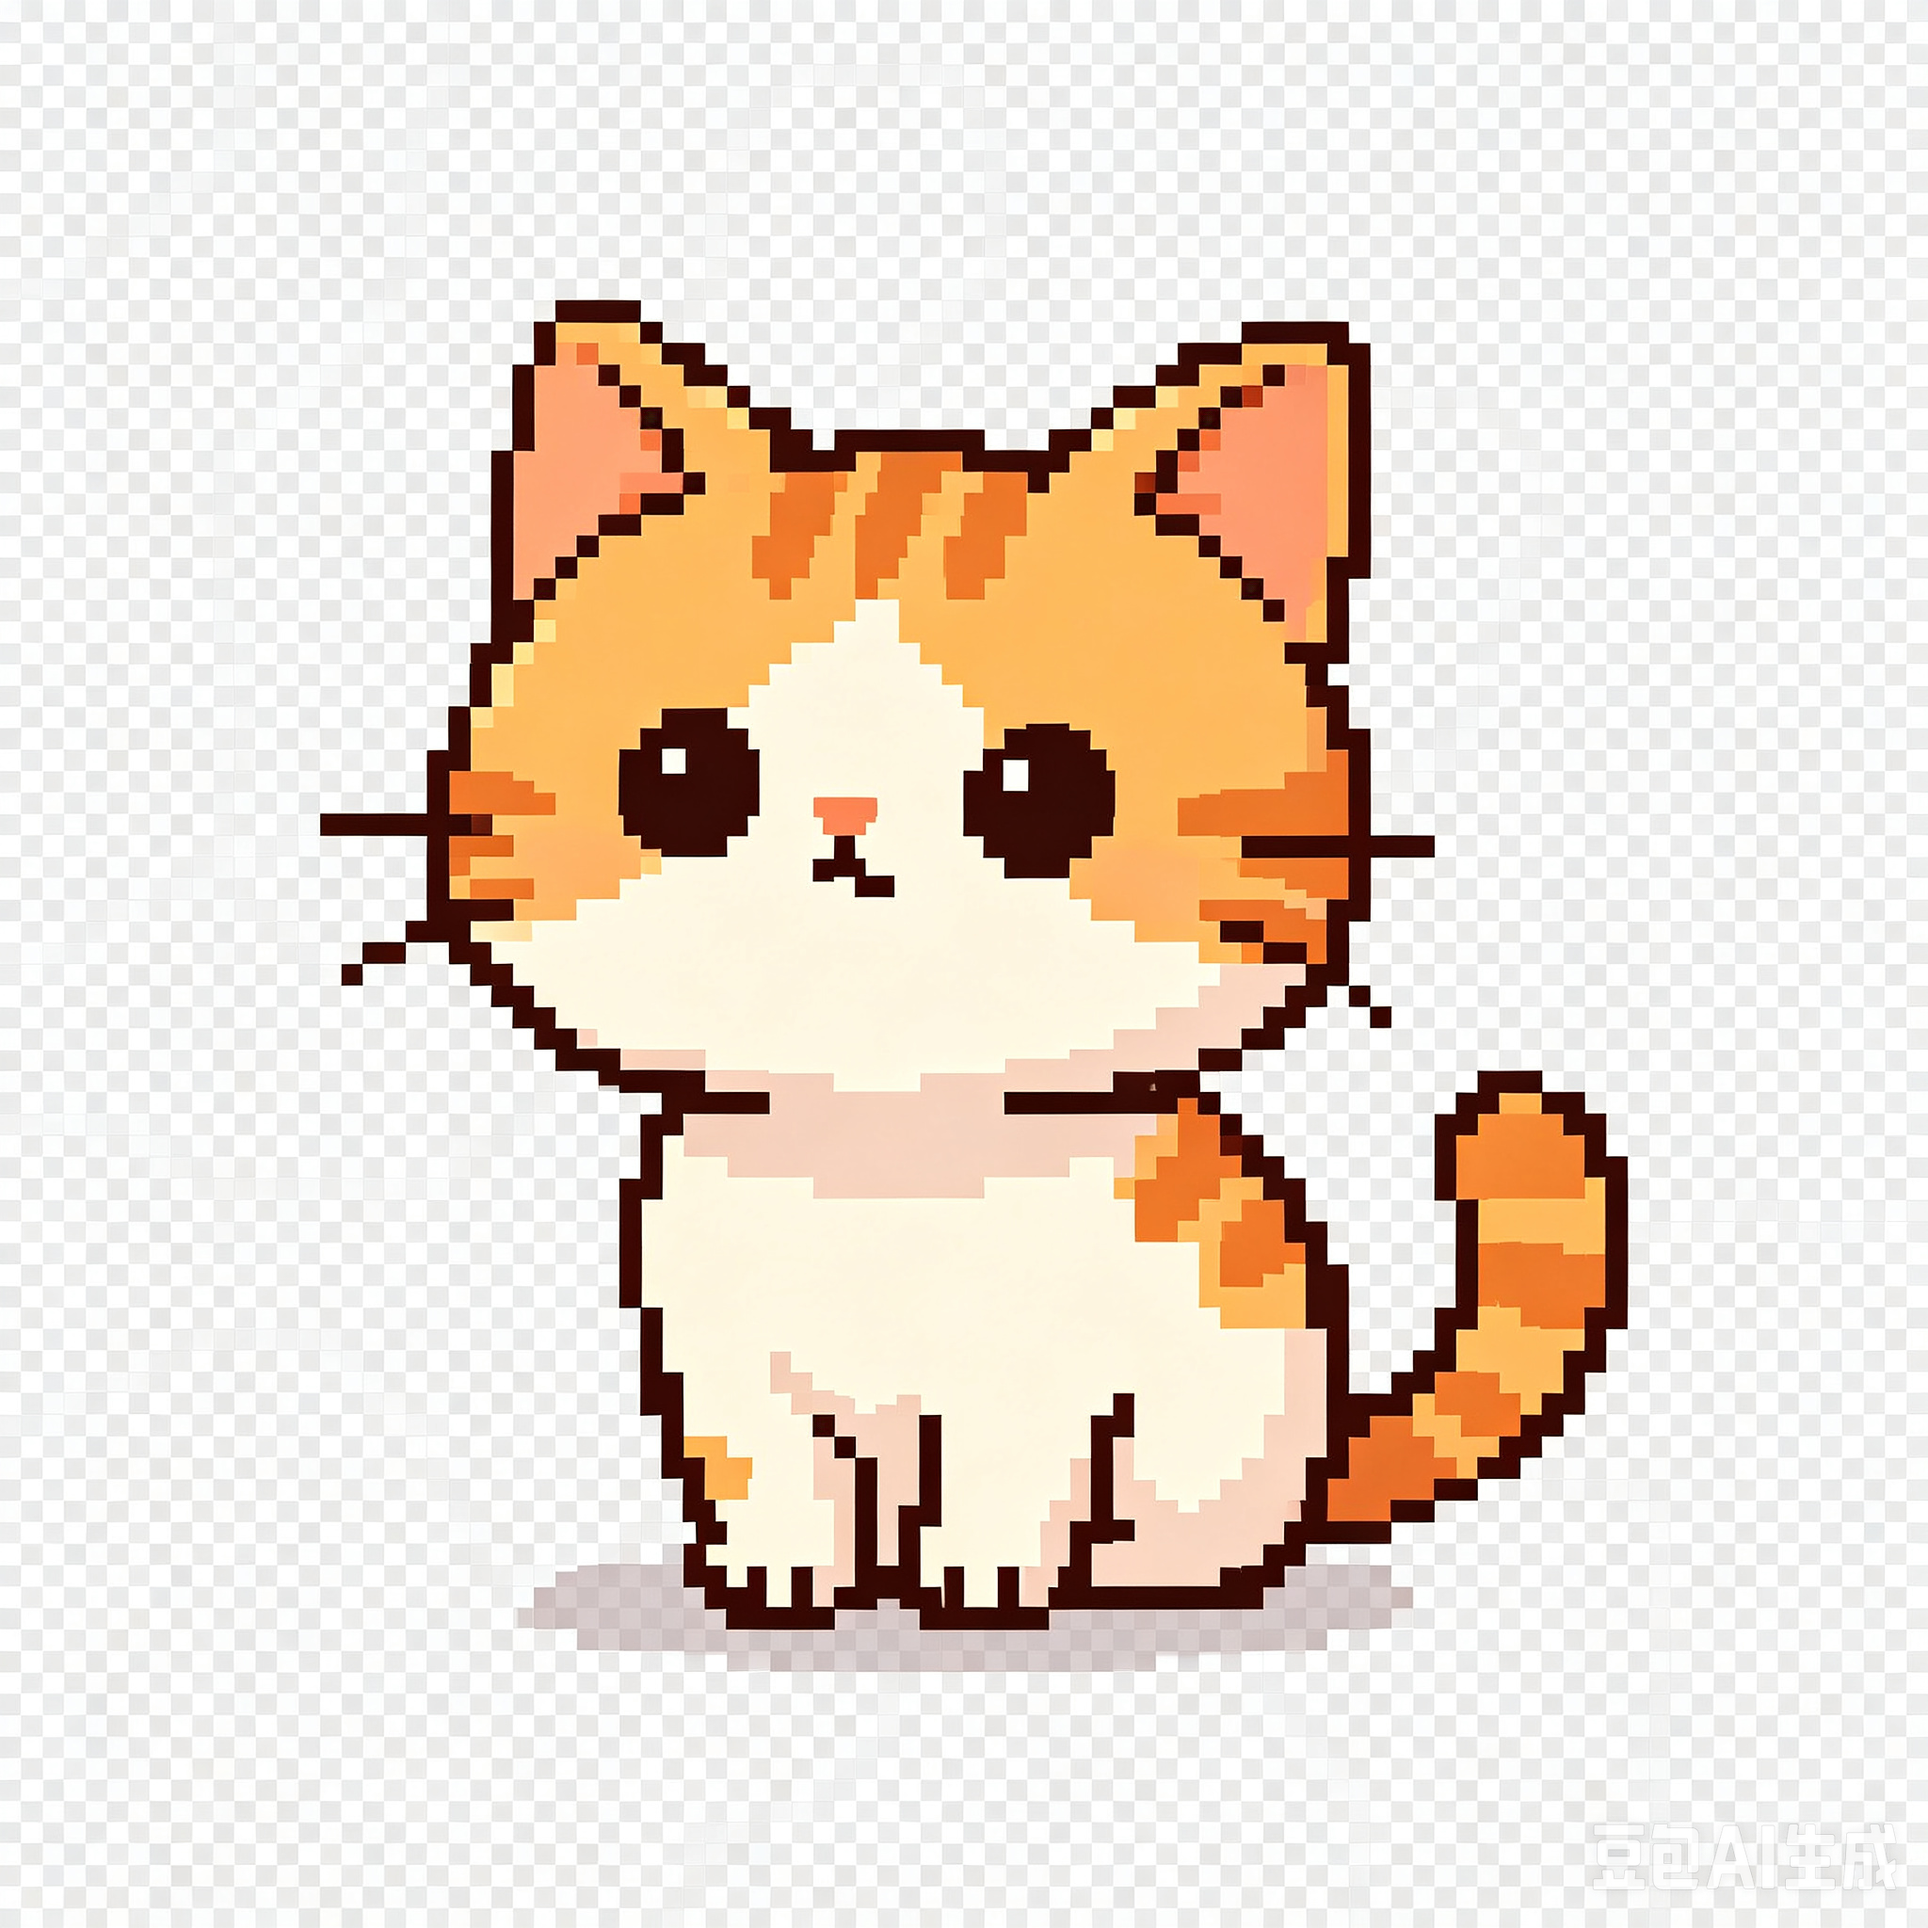
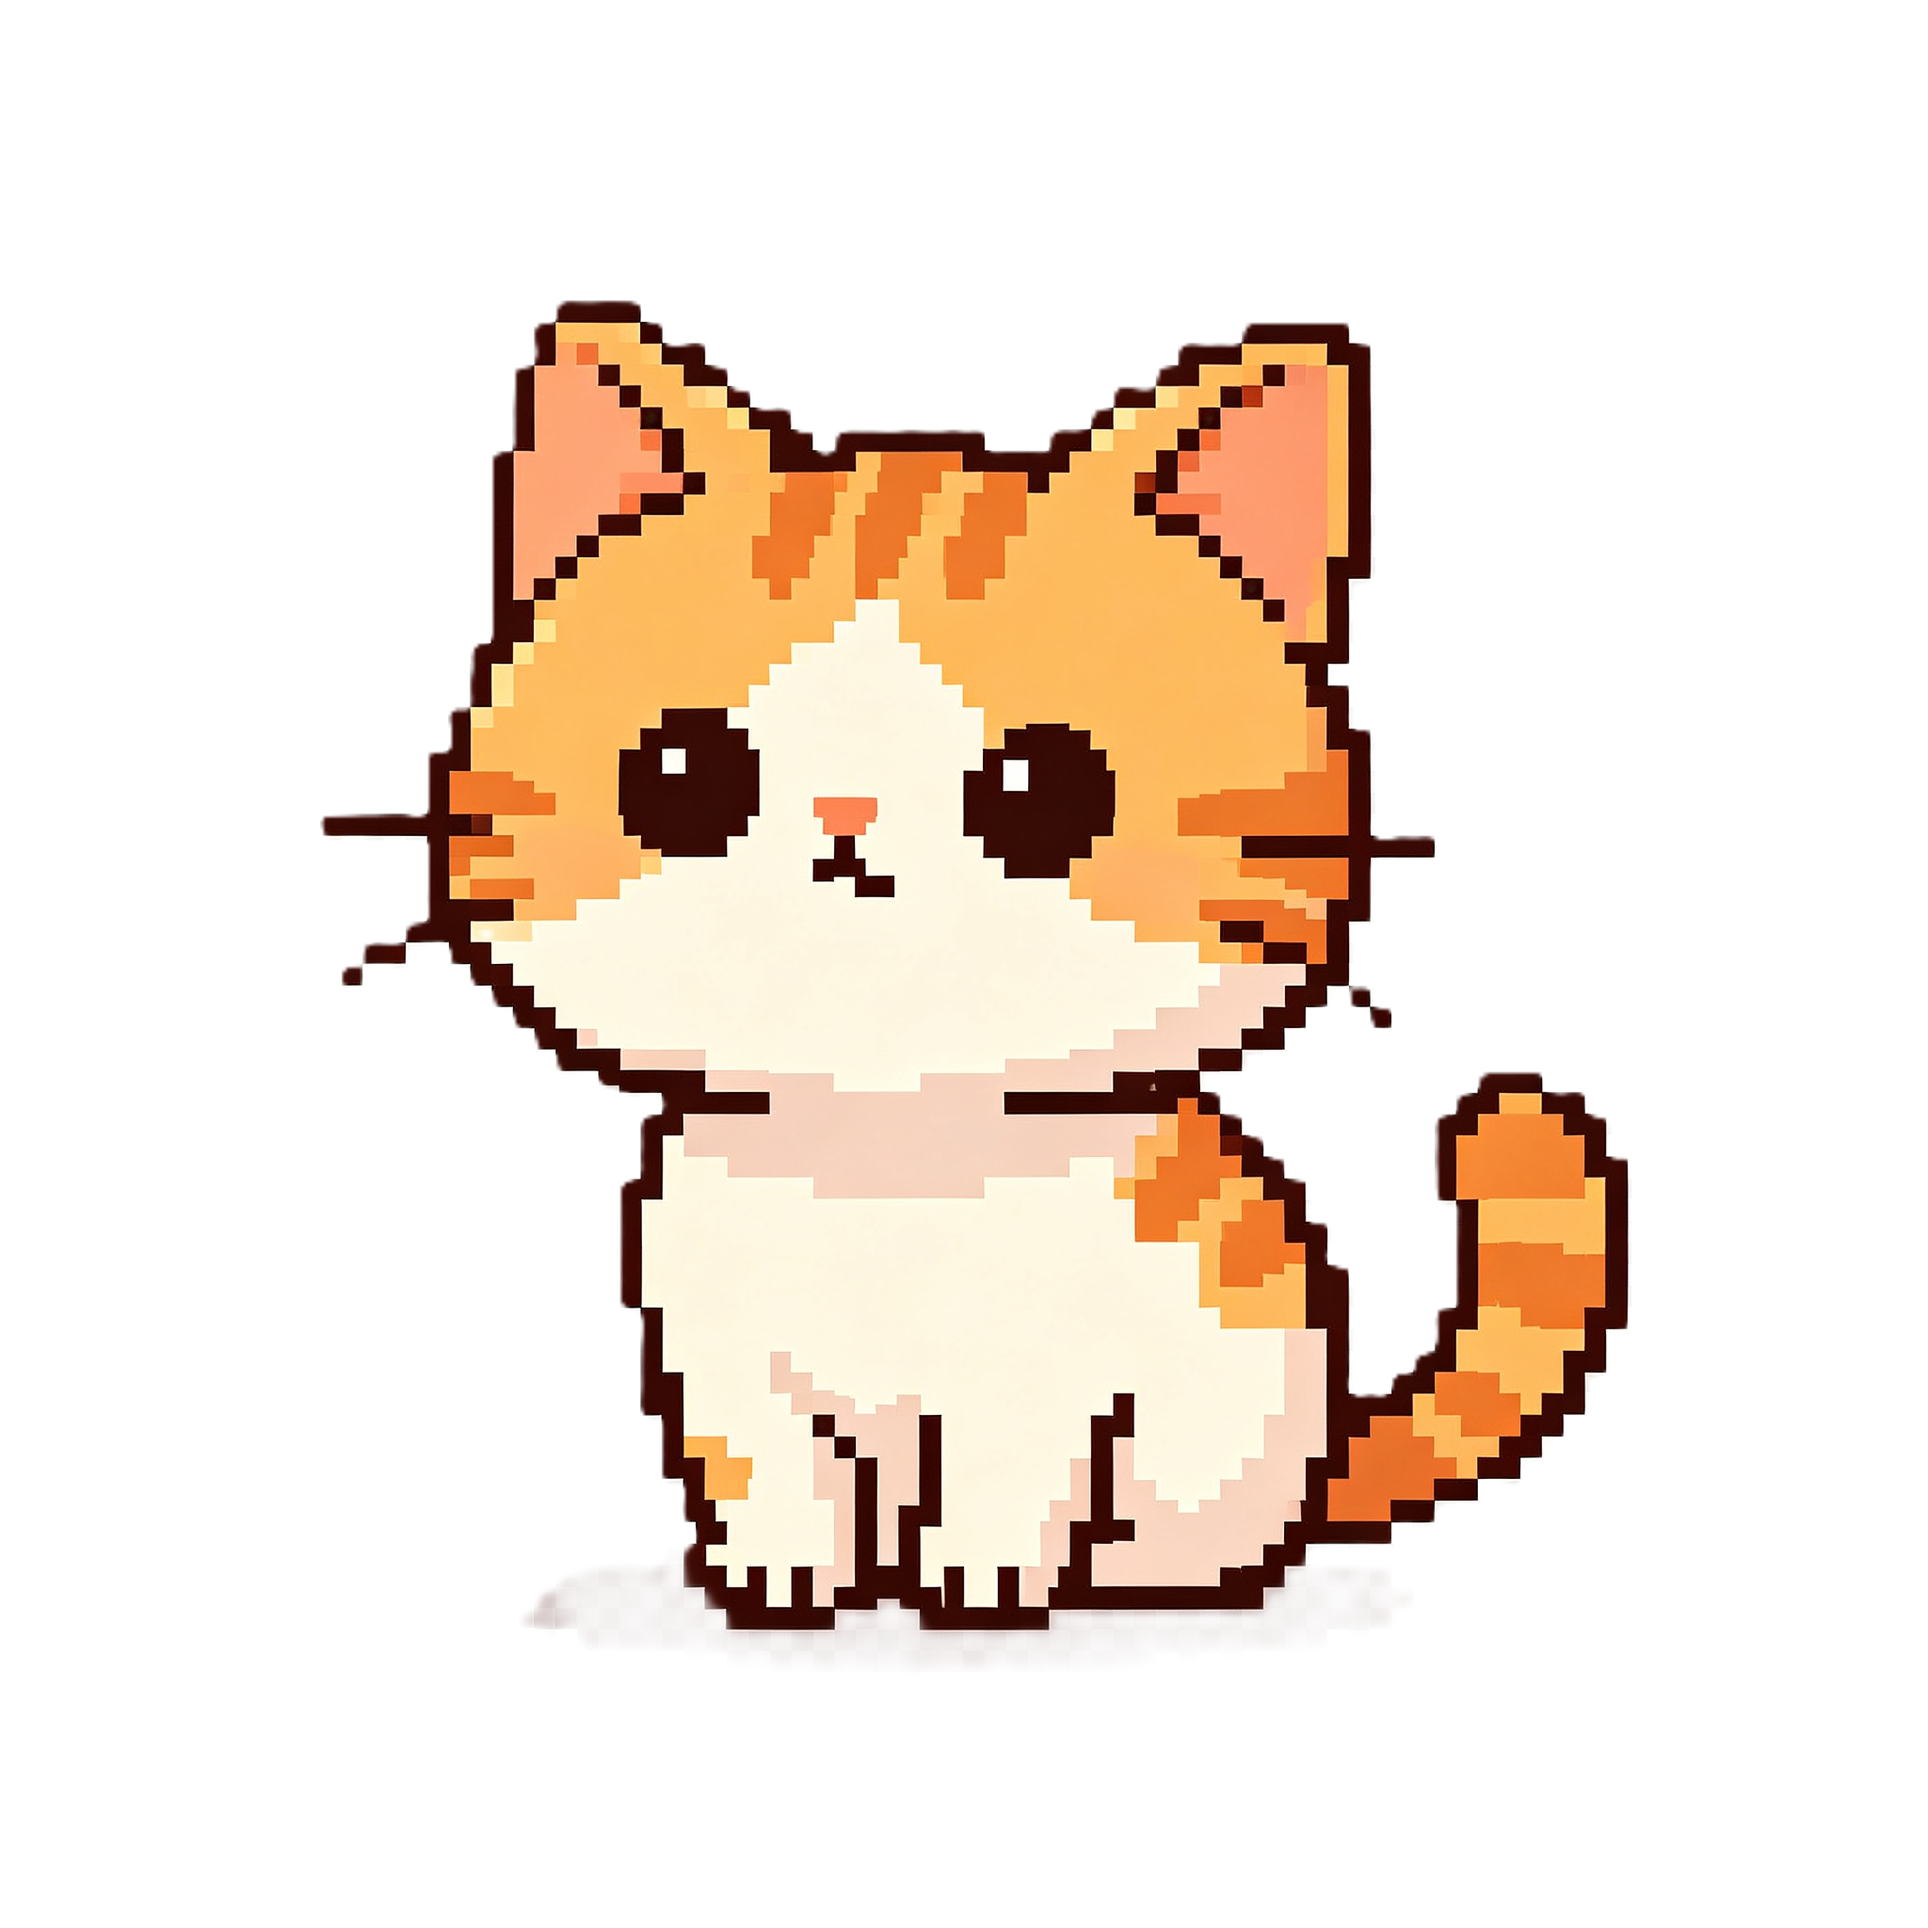
新增名字，情绪，状态，更改选项名称

diff --git a/main.py b/main.py
@@ -50,12 +50,17 @@ class DesktopPet(QMainWindow):
             
         tray_menu = QMenu()
         
-        self.toggle_action = tray_menu.addAction("显示宠物")
+        settings_action = tray_menu.addAction("设置")
+        settings_action.triggered.connect(self.show_settings)
+        
+        tray_menu.addSeparator()
+        
+        self.toggle_action = tray_menu.addAction("隐藏宠物")
         self.toggle_action.triggered.connect(self.toggle_visibility)
         
         tray_menu.addSeparator()
         
-        exit_action = tray_menu.addAction("退出程序")
+        exit_action = tray_menu.addAction("退出")
         exit_action.triggered.connect(QApplication.instance().quit)
         
         self.tray_icon.setContextMenu(tray_menu)
@@ -101,21 +106,41 @@ class DesktopPet(QMainWindow):
     def show_context_menu(self, pos):
         menu = QMenu()
         
+        name_action = menu.addAction("名字")
+        name_action.triggered.connect(self.show_name)
+        
+        mood_action = menu.addAction("情绪")
+        mood_action.triggered.connect(self.show_mood)
+        
+        status_action = menu.addAction("状态")
+        status_action.triggered.connect(self.show_status)
+        
+        menu.addSeparator()
+        
         settings_action = menu.addAction("设置")
         settings_action.triggered.connect(self.show_settings)
         
-        hide_action = menu.addAction("隐藏宠物")
+        hide_action = menu.addAction("捉迷藏")
         hide_action.triggered.connect(self.hide_pet)
         
         menu.addSeparator()
         
-        exit_action = menu.addAction("退出程序")
+        exit_action = menu.addAction("再见")
         exit_action.triggered.connect(QApplication.instance().quit)
         
         menu.exec_(pos)
         
     def show_settings(self):
         QMessageBox.information(self, "设置", "设置功能开发中...")
+        
+    def show_name(self):
+        QMessageBox.information(self, "名字", "宠物名字：未设置\n（功能开发中）")
+        
+    def show_mood(self):
+        QMessageBox.information(self, "情绪", "宠物情绪：开心\n（功能开发中）")
+        
+    def show_status(self):
+        QMessageBox.information(self, "状态", "宠物状态：待机中\n（功能开发中）")
         
     def hide_pet(self):
         self.hide()

diff --git a/.trae/documents/桌面宠物修改计划.md b/.trae/documents/桌面宠物修改计划.md
@@ -1,0 +1,72 @@
+# 桌面宠物应用修改计划
+
+## 1. 修改概述
+针对现有桌面宠物应用进行三项修改：托盘菜单重构、Bug修复、宠物右键菜单更新。
+
+## 2. 现有代码分析
+文件路径：`c:\Users\lenovo\Desktop\the pet\main.py`
+
+当前问题：
+- 第53行：托盘菜单初始文本为"显示宠物"，但初次运行时宠物是可见的，应该是"隐藏宠物"
+- 第51-59行：托盘菜单缺少【设置】选项
+- 第101-115行：宠物右键菜单不符合新需求
+
+## 3. 详细修改步骤
+
+### 3.1 修改系统托盘菜单（第43-62行）
+**目标**：托盘菜单包含【设置】、【显示/隐藏】、【退出】三个选项
+
+修改 `init_tray()` 方法：
+- 在第53行之后添加设置菜单项
+- 修改 toggle_action 的初始文本从"显示宠物"改为"隐藏宠物"（因为初次运行宠物是显示的）
+- 确保显示/隐藏切换逻辑正确
+
+### 3.2 修复初始显示文本Bug（第53行）
+**问题**：初次运行显示"显示宠物"，但应该显示"隐藏宠物"
+**解决方案**：将第53行的初始文本改为"隐藏宠物"
+
+### 3.3 修改宠物右键菜单（第101-115行）
+**目标**：菜单包含【名字】、【情绪】、【状态】、【设置】、【捉迷藏】、【再见】
+
+具体修改：
+- 添加【名字】选项（占位符，可显示宠物名称）
+- 添加【情绪】选项（占位符，可显示宠物情绪）
+- 添加【状态】选项（占位符，可显示宠物状态）
+- 保留【设置】选项（已有）
+- 将【隐藏宠物】改为【捉迷藏】（功能不变）
+- 将【退出程序】改为【再见】（功能不变）
+
+### 3.4 添加占位符功能方法
+为新增的菜单选项添加处理方法：
+- `show_name()` - 显示宠物名字
+- `show_mood()` - 显示宠物情绪
+- `show_status()` - 显示宠物状态
+
+## 4. 预期结果
+
+### 4.1 系统托盘菜单
+- 【设置】：打开设置对话框
+- 【隐藏宠物】：隐藏/显示宠物（根据当前状态动态切换文本）
+- 【退出】：退出程序
+
+### 4.2 宠物右键菜单
+- 【名字】：显示宠物名字信息
+- 【情绪】：显示宠物情绪信息
+- 【状态】：显示宠物状态信息
+- 【设置】：打开设置对话框
+- 【捉迷藏】：隐藏宠物
+- 【再见】：退出程序
+
+## 5. 修改影响范围
+- `main.py` 文件
+  - `init_tray()` 方法：修改托盘菜单结构
+  - `show_context_menu()` 方法：完全重写宠物右键菜单
+  - 新增 3 个占位符方法：`show_name()`, `show_mood()`, `show_status()`
+
+## 6. 风险评估
+- 风险等级：低
+- 只需修改现有代码逻辑，不涉及窗口大小、位置等核心设置
+- 托盘和菜单功能测试简单易验证
+
+---
+**文档创建时间**：2026-05-30
